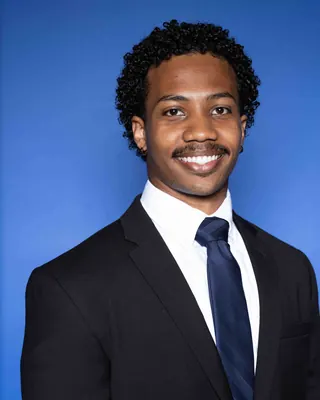
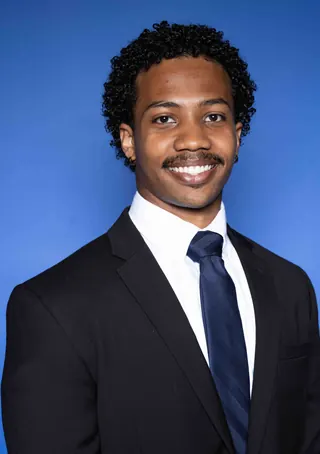
Use the hand-cropped headshot in About
Claude-Session: https://claude.ai/code/session_01PS7nDS51rvwgcAWNzzRdaV

diff --git a/style.css b/style.css
@@ -459,8 +459,6 @@ main > .band,
 .about-photo {
   flex: 0 0 auto;
   width: 10rem;
-  aspect-ratio: 4 / 5;
-  object-fit: cover;
 }
 
 .about .prose {

diff --git a/tools/optimize_images.py b/tools/optimize_images.py
@@ -52,9 +52,11 @@ def save_widths(im, name, widths, quality=78):
 rooftop = load(SRC / "rooftop.jpg")
 save_widths(rooftop, "rooftop", [480, 800, 1200, 1600])
 
-# About: suit headshot, 4:5 head-and-shoulders.
+# About: the hand-cropped headshot, used at its own ratio.
+save_widths(load(SRC / "headshot-about.jpg"), "headshot", [320, 640])
+
+# The wider original of the same photo, for the social card and touch icon.
 suit = load(SRC / "headshot-suit.jpg")
-save_widths(crop_ratio(suit, 4 / 5, cy=0.42), "headshot", [320, 640])
 
 # Open Graph / Twitter card: 1200x630 JPEG (broadest crawler support).
 og = crop_ratio(suit, 1200 / 630, cy=0.36).resize((1200, 630), Image.LANCZOS)
